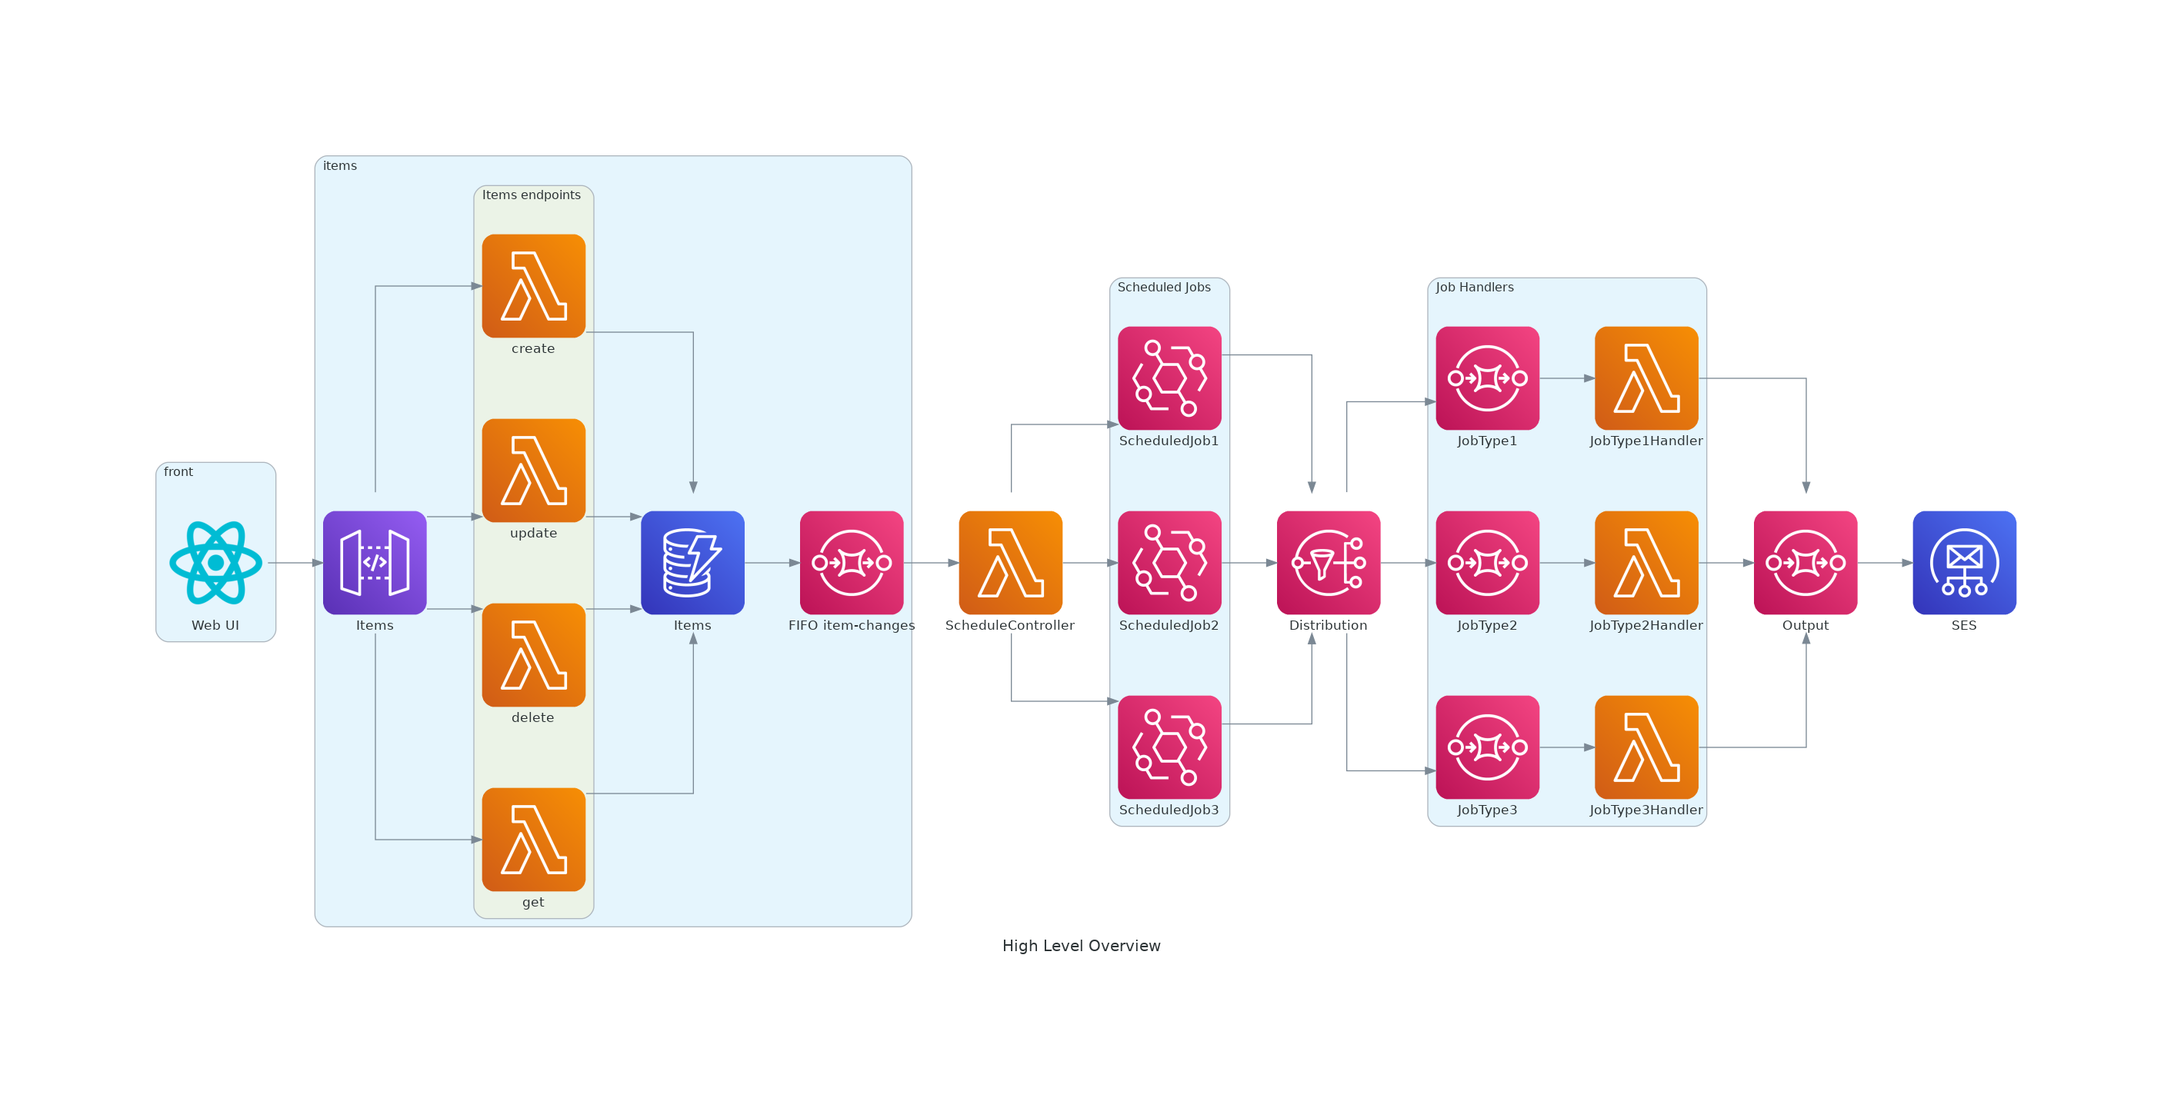
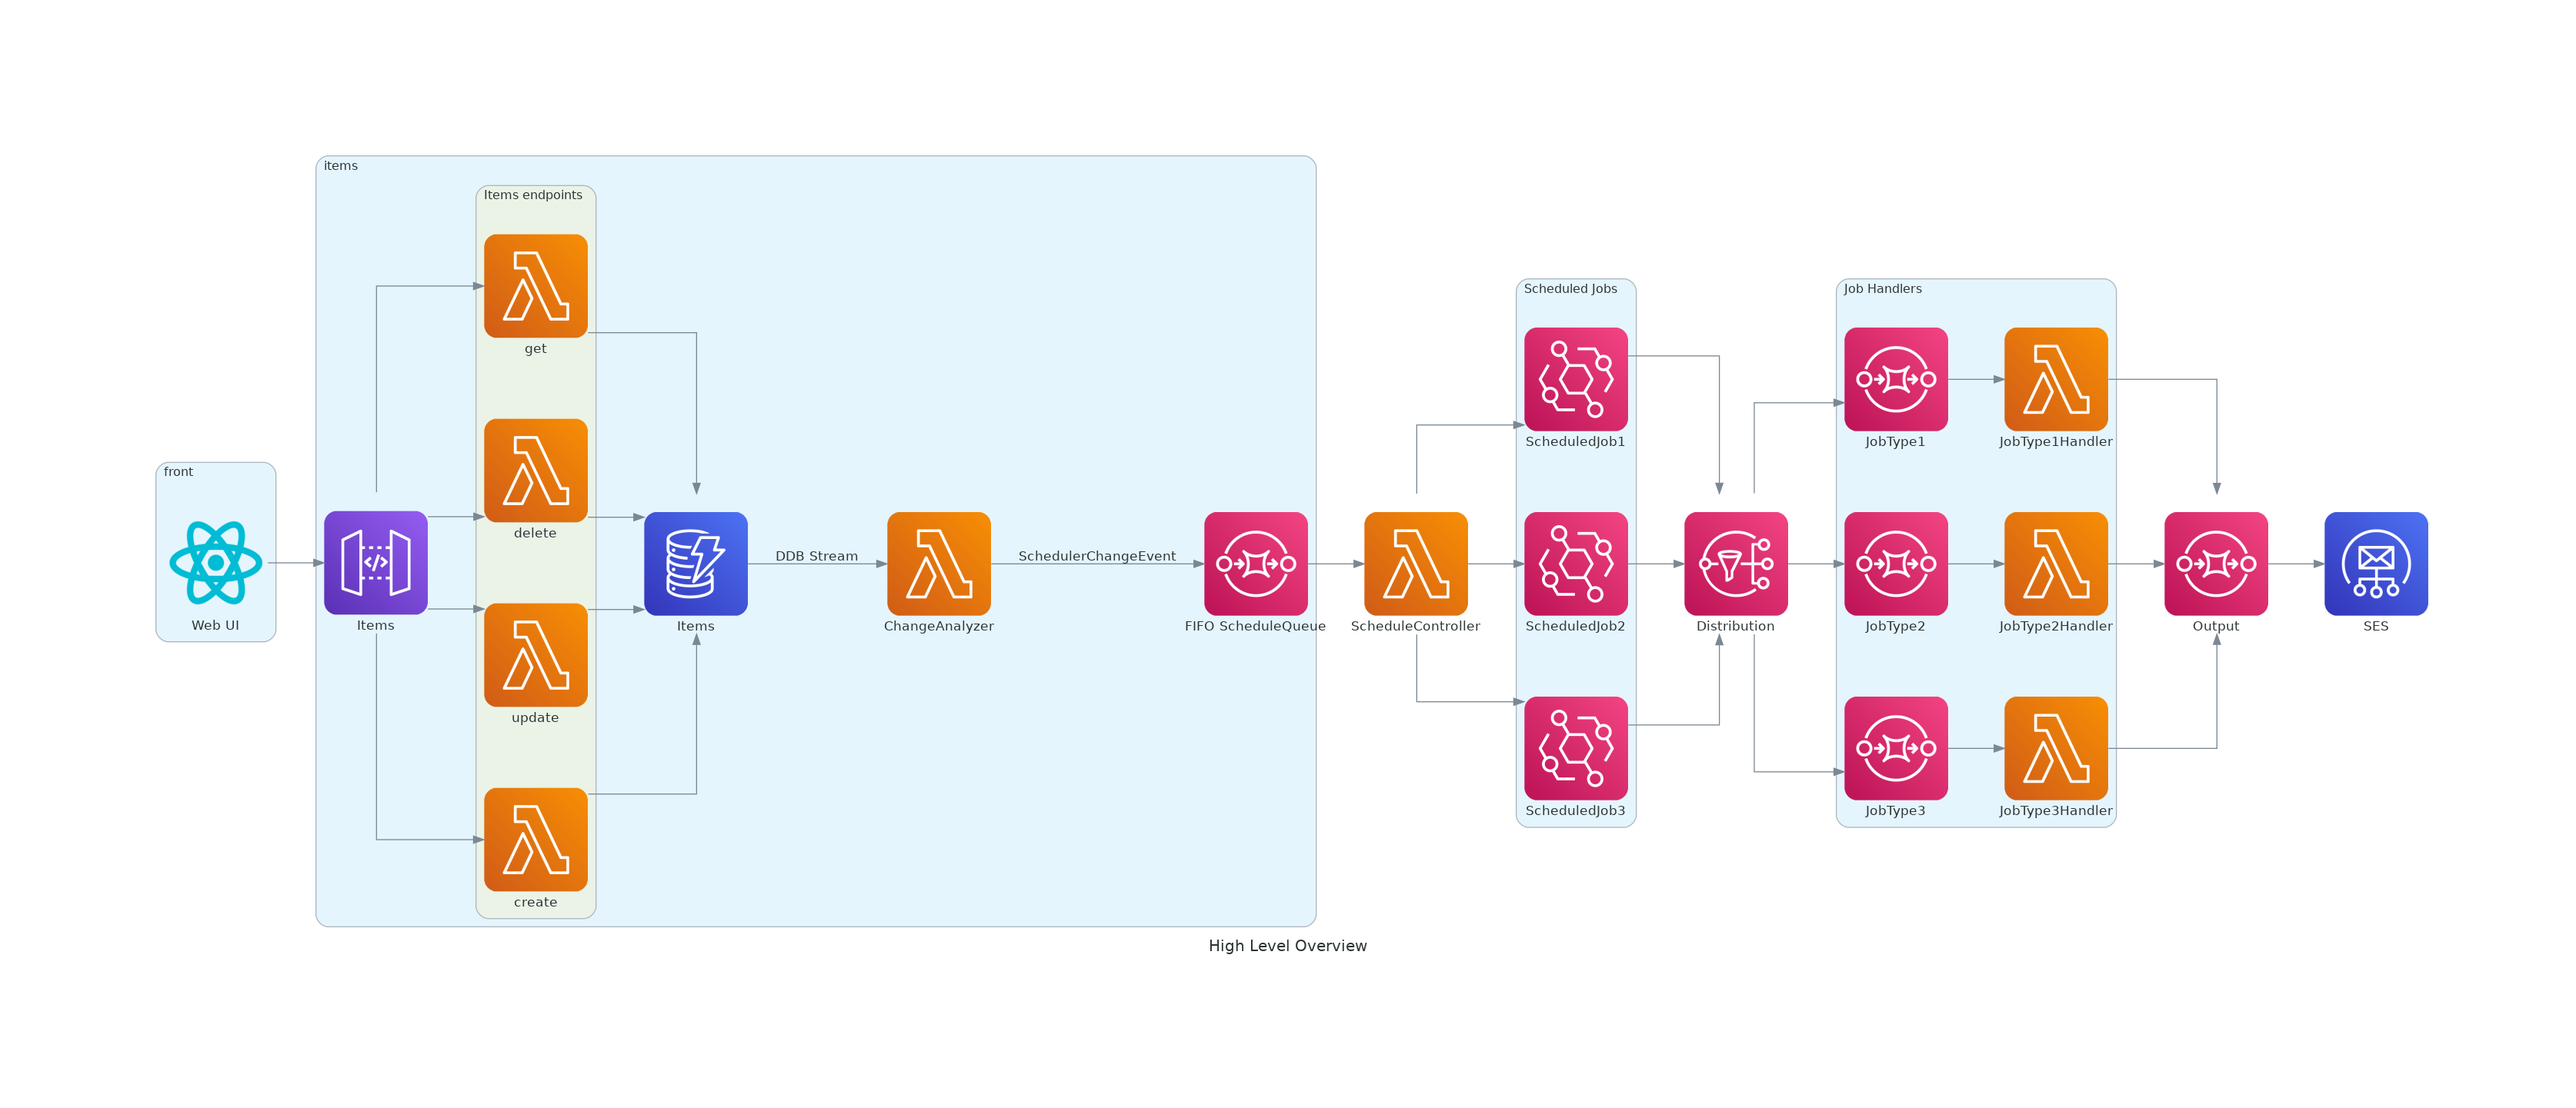
docs: improve diagram regarding ScheduleQueue

Changed region(s): [[0.0619, 0.1249, 0.9588, 0.8744], [0.1856, 0.1561, 0.2784, 0.3123], [0.1856, 0.687, 0.2784, 0.8119]]

diff --git a/docs/diagrams/high_level_overview.py b/docs/diagrams/high_level_overview.py
@@ -1,4 +1,4 @@
-from diagrams import Cluster, Diagram
+from diagrams import Cluster, Diagram, Edge
 from diagrams.aws.compute import Lambda
 from diagrams.aws.database import DDB
 from diagrams.aws.engagement import SES
@@ -22,7 +22,8 @@ with Diagram("High Level Overview", show=False, outformat=["png"]):
             ]
 
         items_db = DDB("Items")
-        item_changes_sqs = SQS("FIFO item-changes")
+        items_db_stream_lambda = Lambda("ChangeAnalyzer")
+        item_changes_sqs = SQS("FIFO ScheduleQueue")
 
     item_changes_lambda = Lambda("ScheduleController")
     with Cluster("Scheduled Jobs"):
@@ -47,7 +48,15 @@ with Diagram("High Level Overview", show=False, outformat=["png"]):
     output = SQS("Output")
     mail_sender = SES("SES")
 
-    ui_source >> source >> items_endpoints >> items_db >> item_changes_sqs
+    (
+        ui_source
+        >> source
+        >> items_endpoints
+        >> items_db
+        >> Edge(label="DDB Stream")
+        >> items_db_stream_lambda
+    )
+    items_db_stream_lambda >> Edge(label="SchedulerChangeEvent") >> item_changes_sqs
     (
         item_changes_sqs
         >> item_changes_lambda
